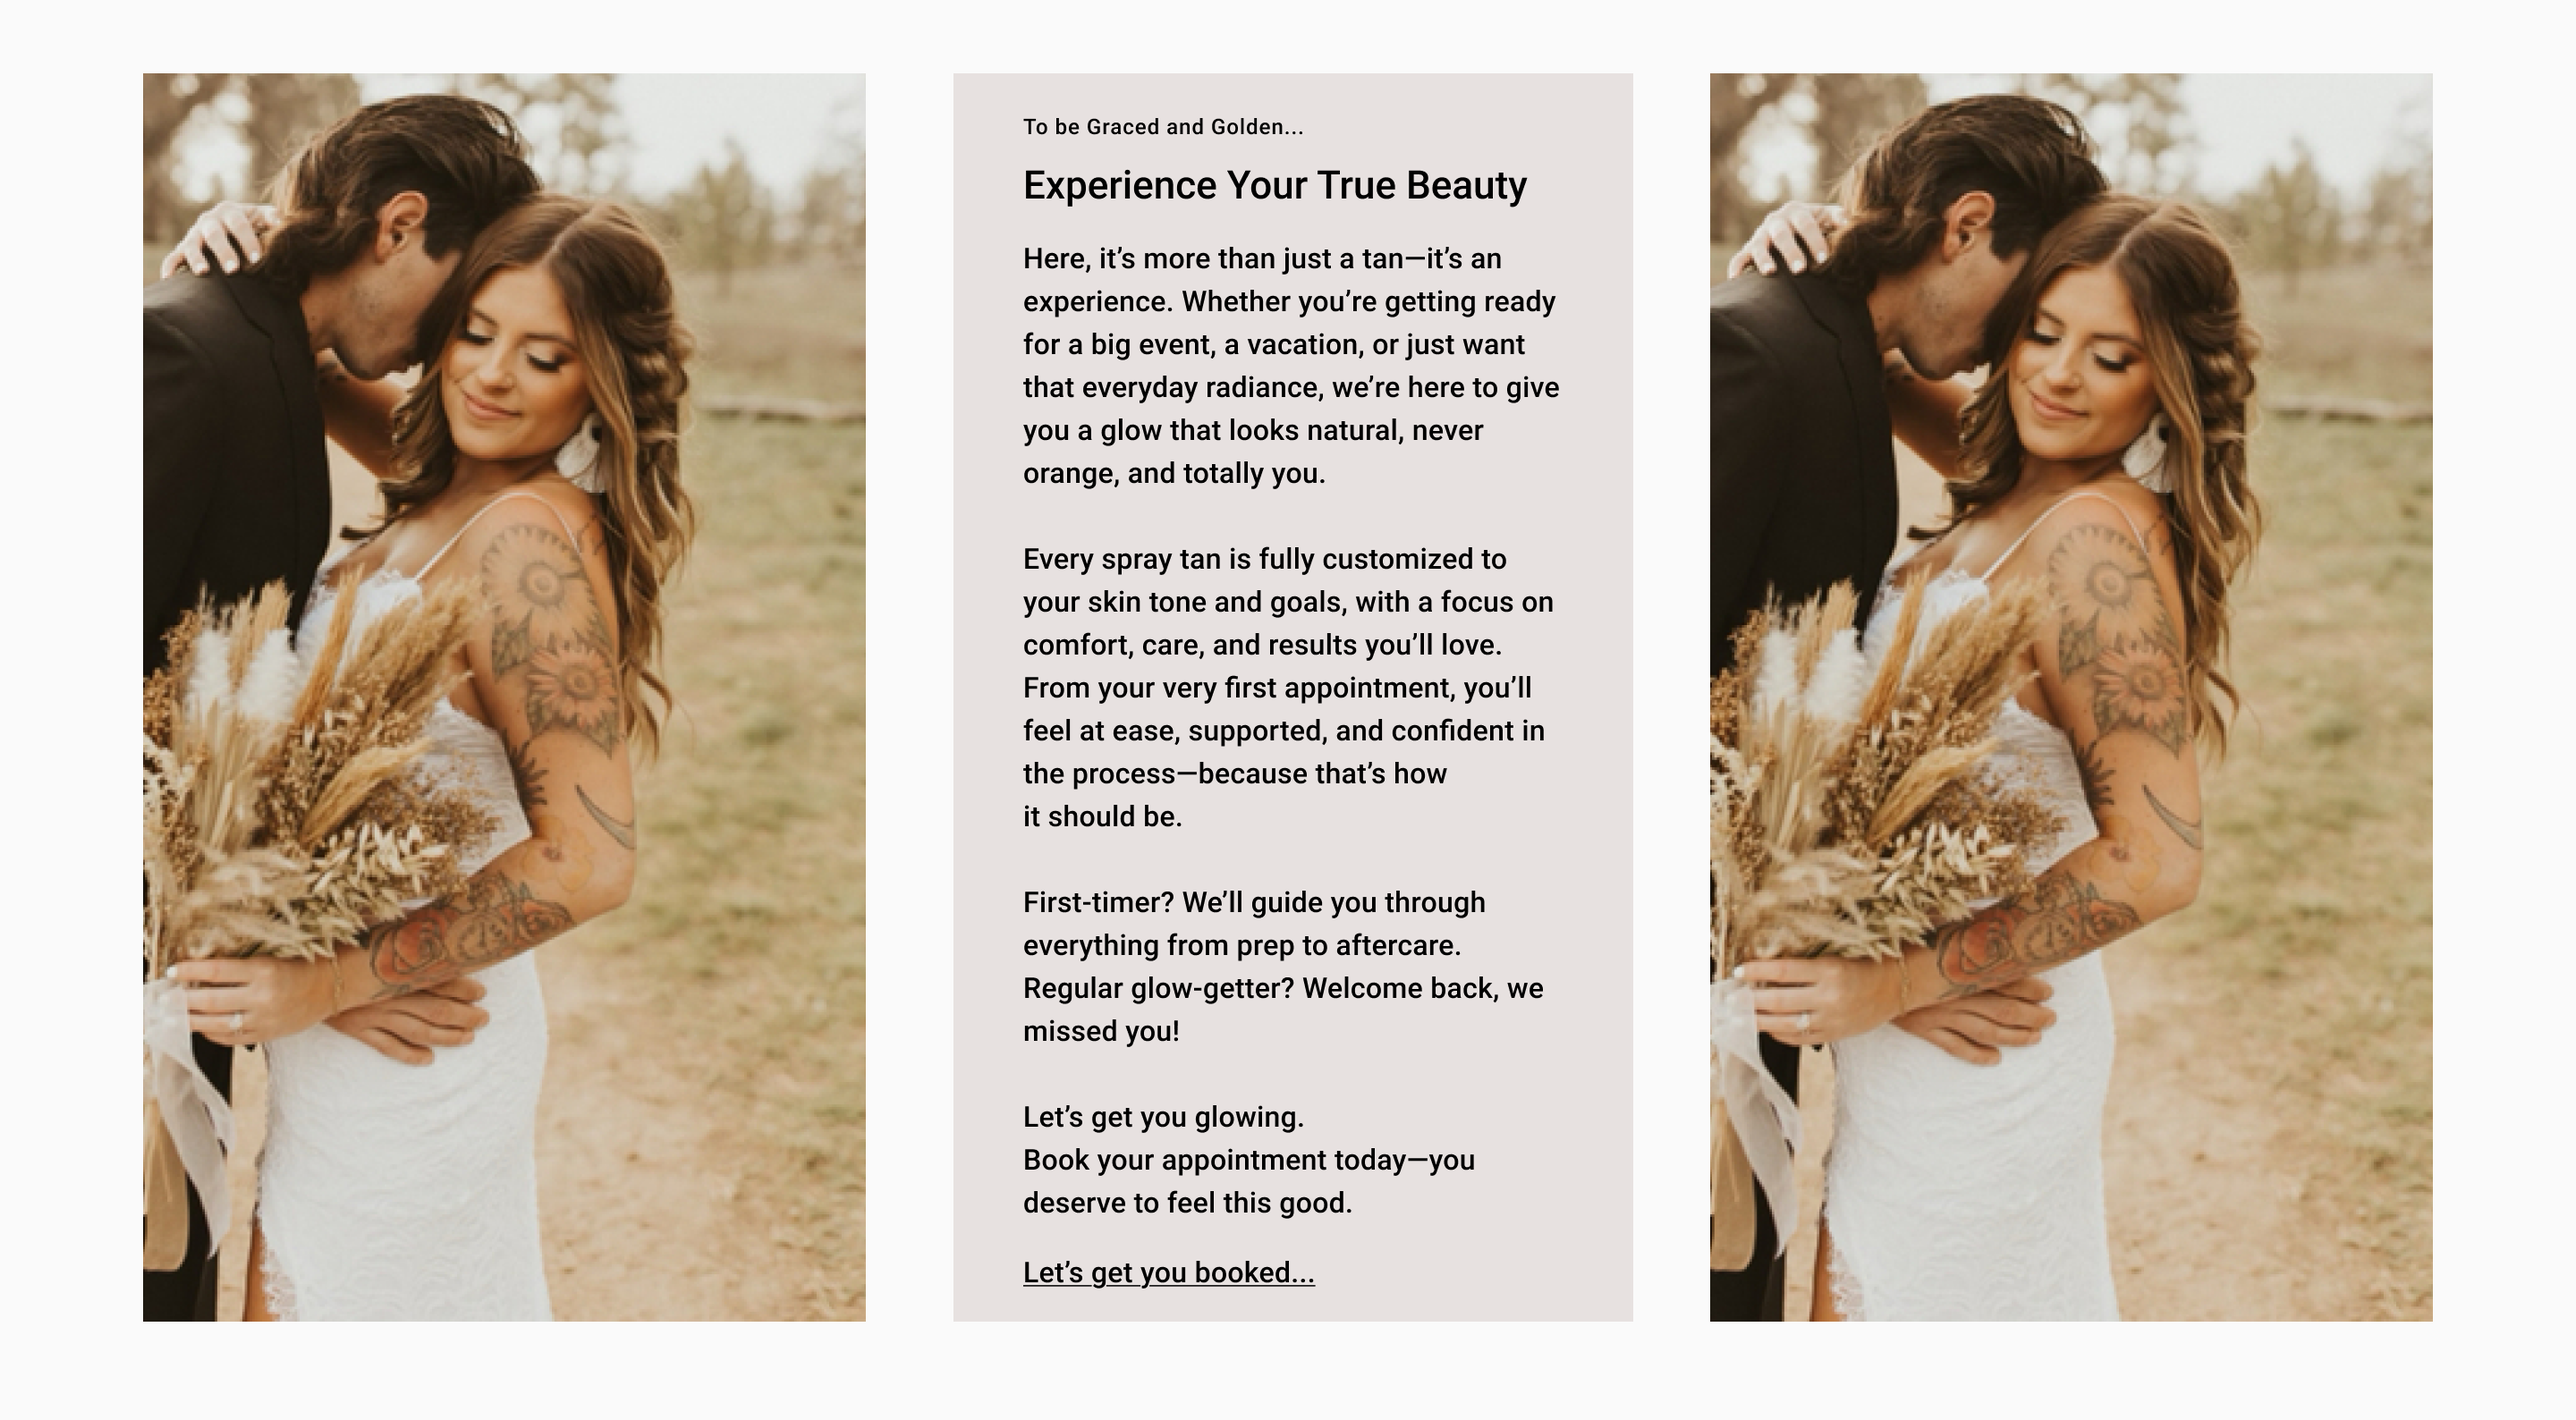
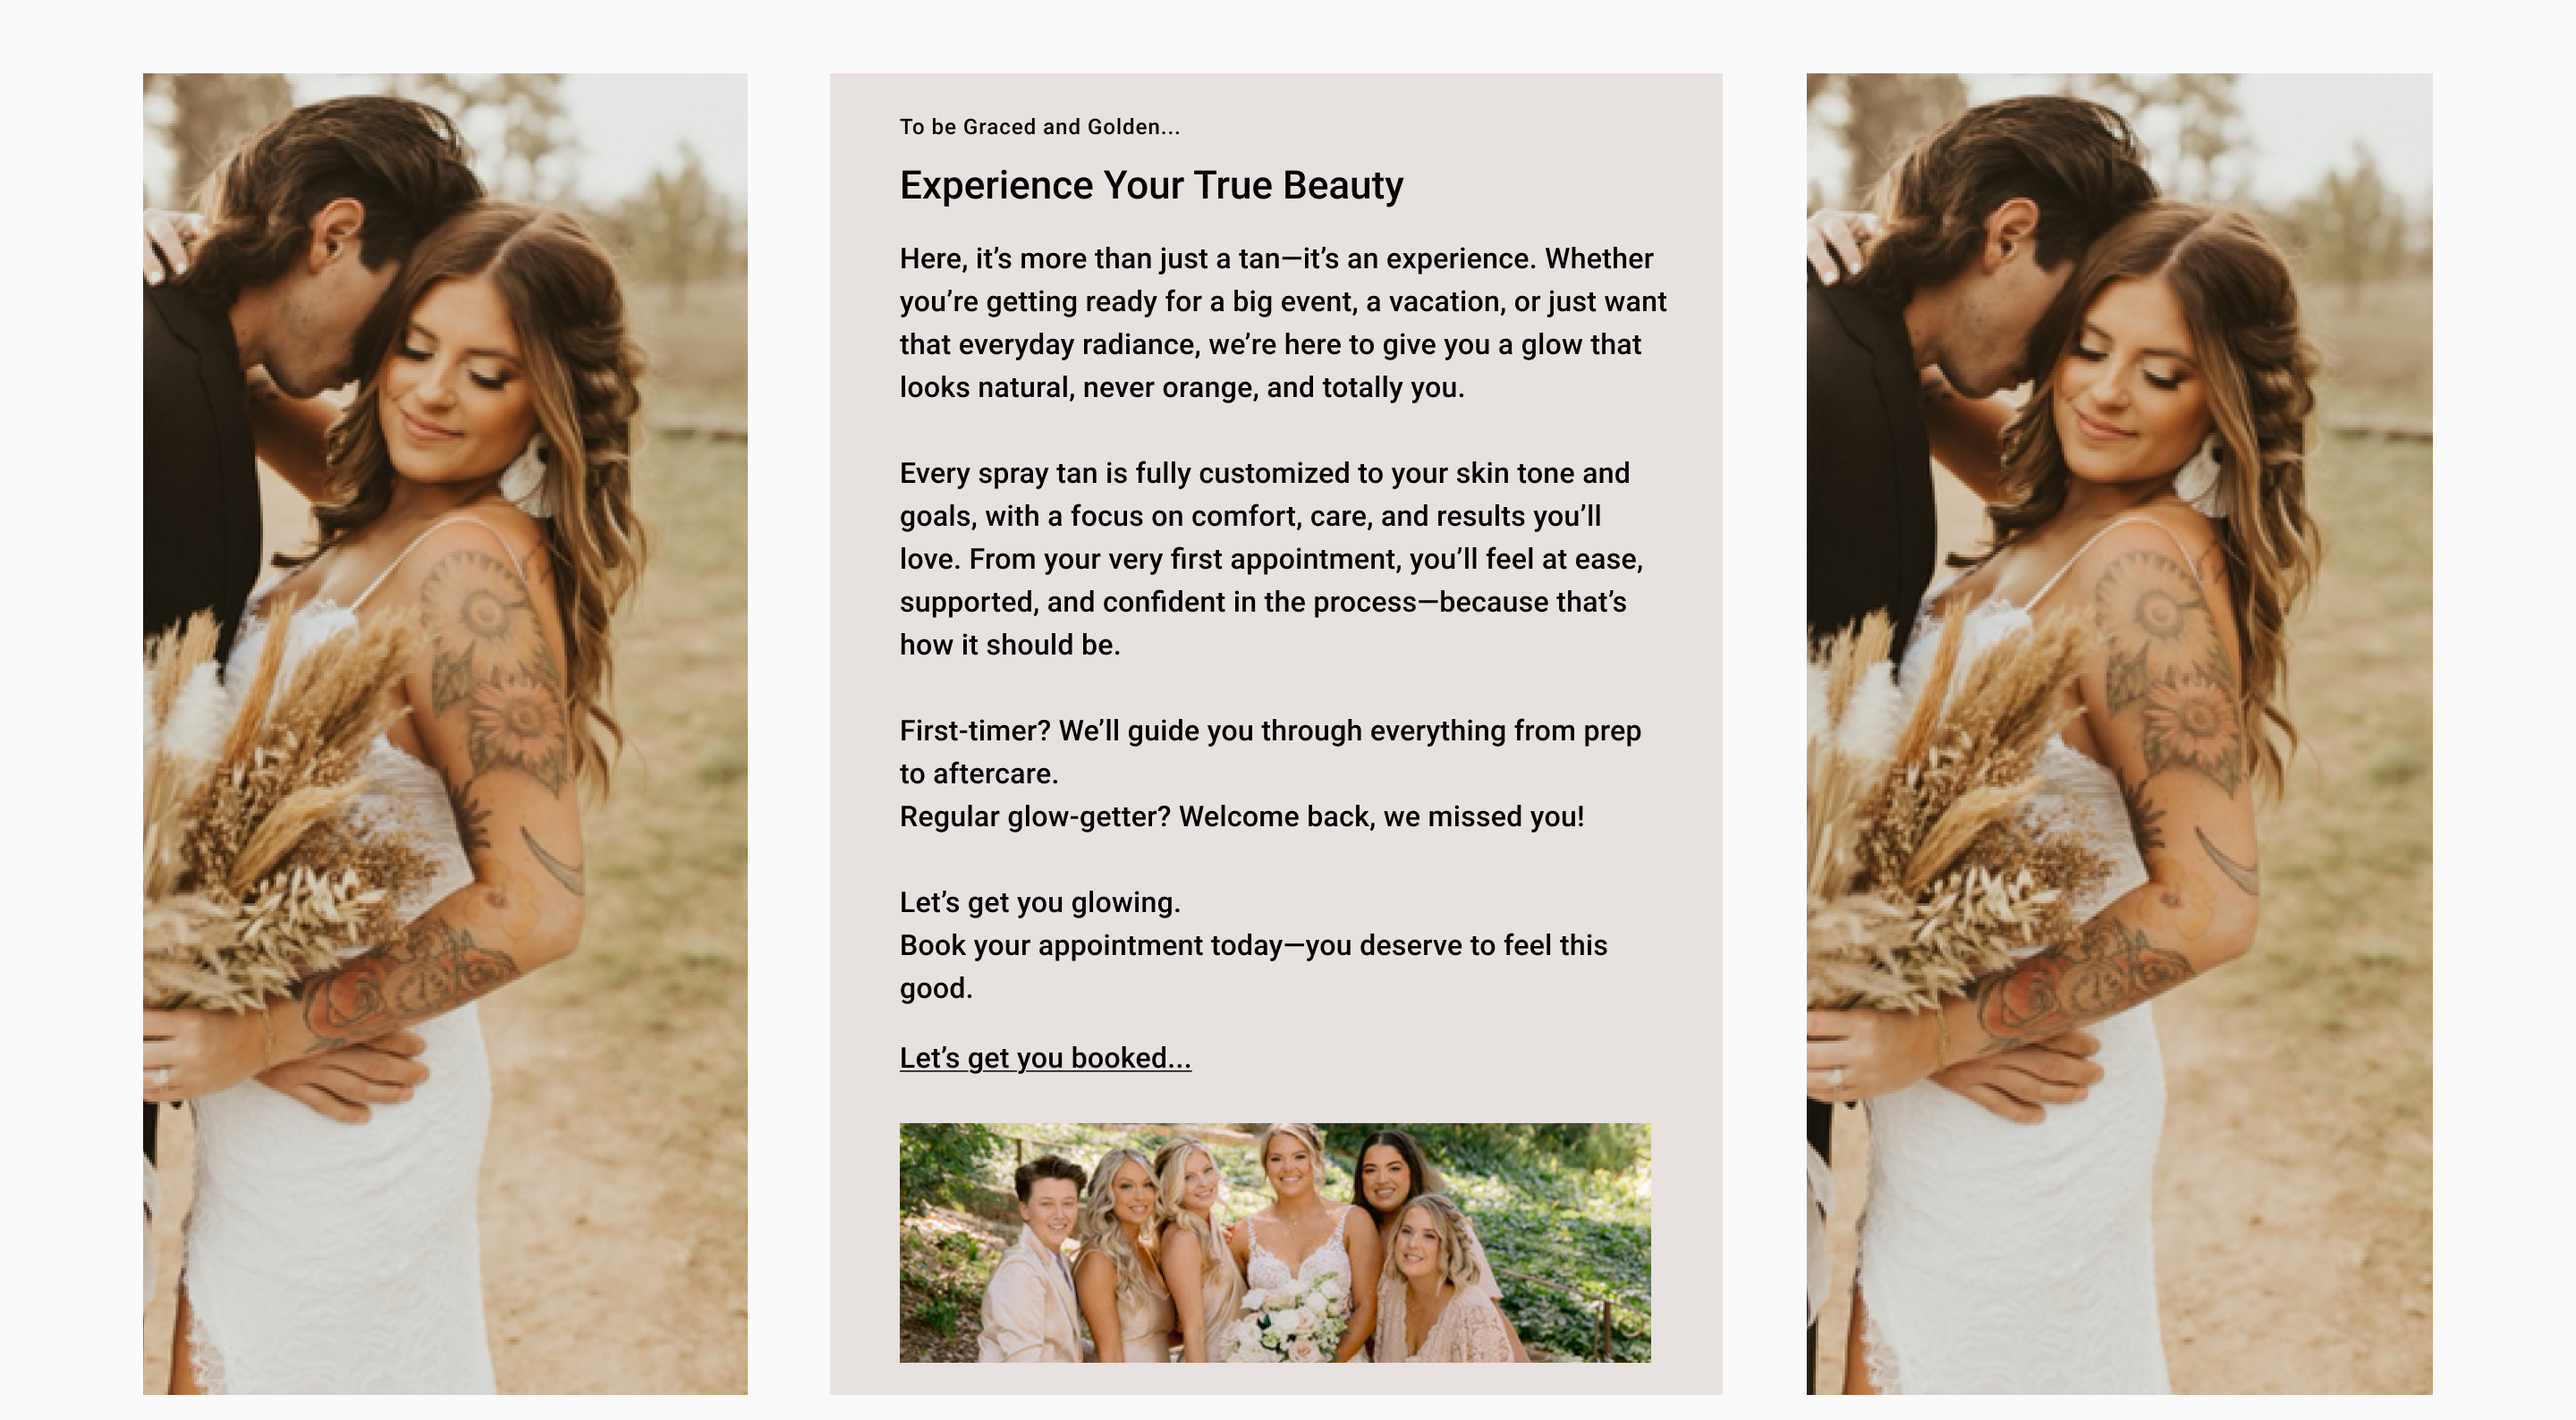
add starting code for Triptych

diff --git a/src/slices/Tryptich/index.tsx b/src/slices/Tryptich/index.tsx
@@ -1,6 +1,8 @@
 import { FC } from "react";
 import { Content } from "@prismicio/client";
-import { SliceComponentProps } from "@prismicio/react";
+import { PrismicRichText, SliceComponentProps } from "@prismicio/react";
+import Bounded from "@/components/Bounded";
+import { PrismicNextImage, PrismicNextLink } from "@prismicio/next";
 
 /**
  * Props for `Tryptich`.
@@ -12,39 +14,19 @@ export type TryptichProps = SliceComponentProps<Content.TryptichSlice>;
  */
 const Tryptich: FC<TryptichProps> = ({ slice }) => {
   return (
-    <section
-      data-slice-type={slice.slice_type}
-      data-slice-variation={slice.variation}
-    >
-      Placeholder component for tryptich (variation: {slice.variation}) slices.
-      <br />
-      <strong>You can edit this slice directly in your code editor.</strong>
-      {/**
-       * 💡 Use Prismic MCP with your code editor
-       *
-       * Get AI-powered help to build your slice components — based on your actual model.
-       *
-       * ▶ Setup:
-       * 1. Add a new MCP Server in your code editor:
-       *
-       * {
-       *   "mcpServers": {
-       *     "Prismic MCP": {
-       *       "command": "npx",
-       *       "args": ["-y", "@prismicio/mcp-server"]
-       *     }
-       *   }
-       * }
-       *
-       * 2. Select Claude 3.7 Sonnet (recommended for optimal output)
-       *
-       * ✅ Then open your slice file and ask your code editor:
-       *    "Code this slice"
-       *
-       * Your code editor reads your slice model and helps you code faster ⚡
-       * 📚 Give your feedback: https://community.prismic.io/t/help-us-shape-the-future-of-slice-creation/19505
-       */}
-    </section>
+    <Bounded data-slice-type={slice.slice_type} data-slice-variation={slice.variation}>
+      <div>
+        <PrismicNextImage field={slice.primary.image_left} />
+        <section>
+          <p>{slice.primary.small_text}</p>
+          <PrismicRichText field={slice.primary.heading} />
+          <PrismicRichText field={slice.primary.body} />
+          <PrismicNextLink field={slice.primary.link} />
+          <PrismicNextImage field={slice.primary.body_image} />
+        </section>
+        <PrismicNextImage field={slice.primary.image_right} />
+      </div>
+    </Bounded>
   );
 };
 

diff --git a/prismicio-types.d.ts b/prismicio-types.d.ts
@@ -101,6 +101,7 @@ export type HeaderDocument<Lang extends string = string> =
   >;
 
 type HomepageDocumentDataSlicesSlice =
+  | TryptichSlice
   | BridalCtaSlice
   | ServicesSlice
   | IntroductionSlice
@@ -170,6 +171,7 @@ export type HomepageDocument<Lang extends string = string> =
   >;
 
 type PageDocumentDataSlicesSlice =
+  | TryptichSlice
   | ServicesSlice
   | Info3ColSlice
   | HeroSlice
@@ -1079,12 +1081,12 @@ export interface TryptichSliceDefaultPrimary {
   /**
    * Body Image field in *Tryptich → Default → Primary*
    *
-   * - **Field Type**: Text
+   * - **Field Type**: Image
    * - **Placeholder**: *None*
    * - **API ID Path**: tryptich.default.primary.body_image
-   * - **Documentation**: https://prismic.io/docs/field#key-text
+   * - **Documentation**: https://prismic.io/docs/field#image
    */
-  body_image: prismic.KeyTextField;
+  body_image: prismic.ImageField<never>;
 
   /**
    * Image Right field in *Tryptich → Default → Primary*
